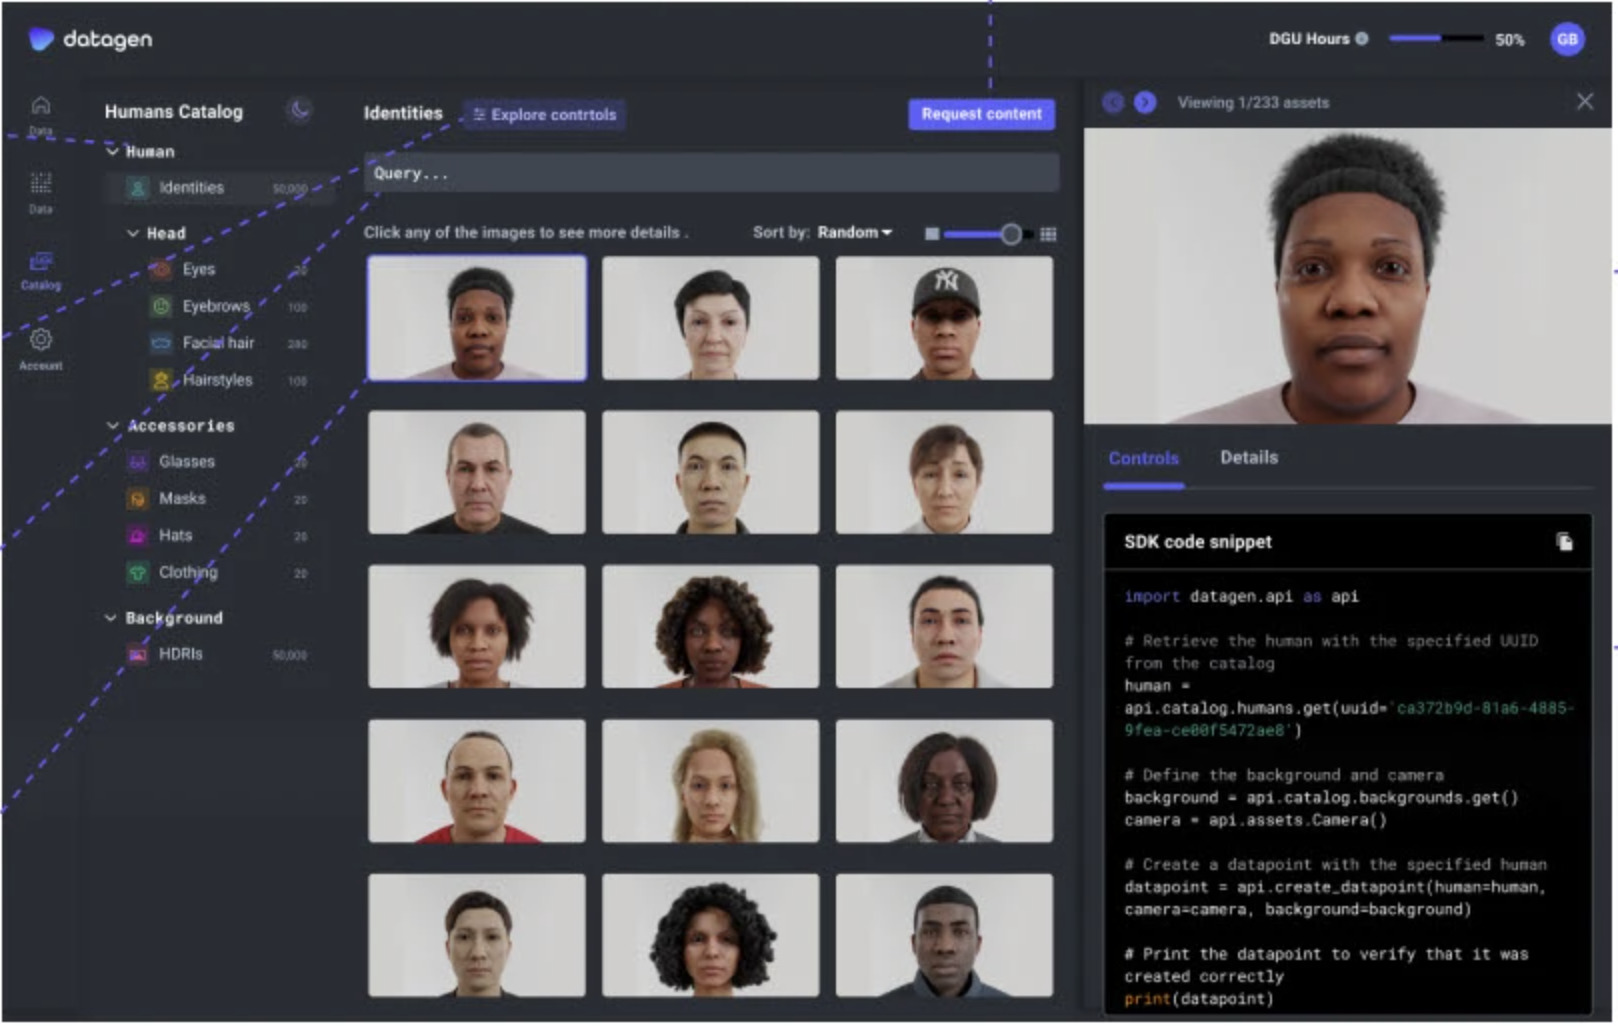
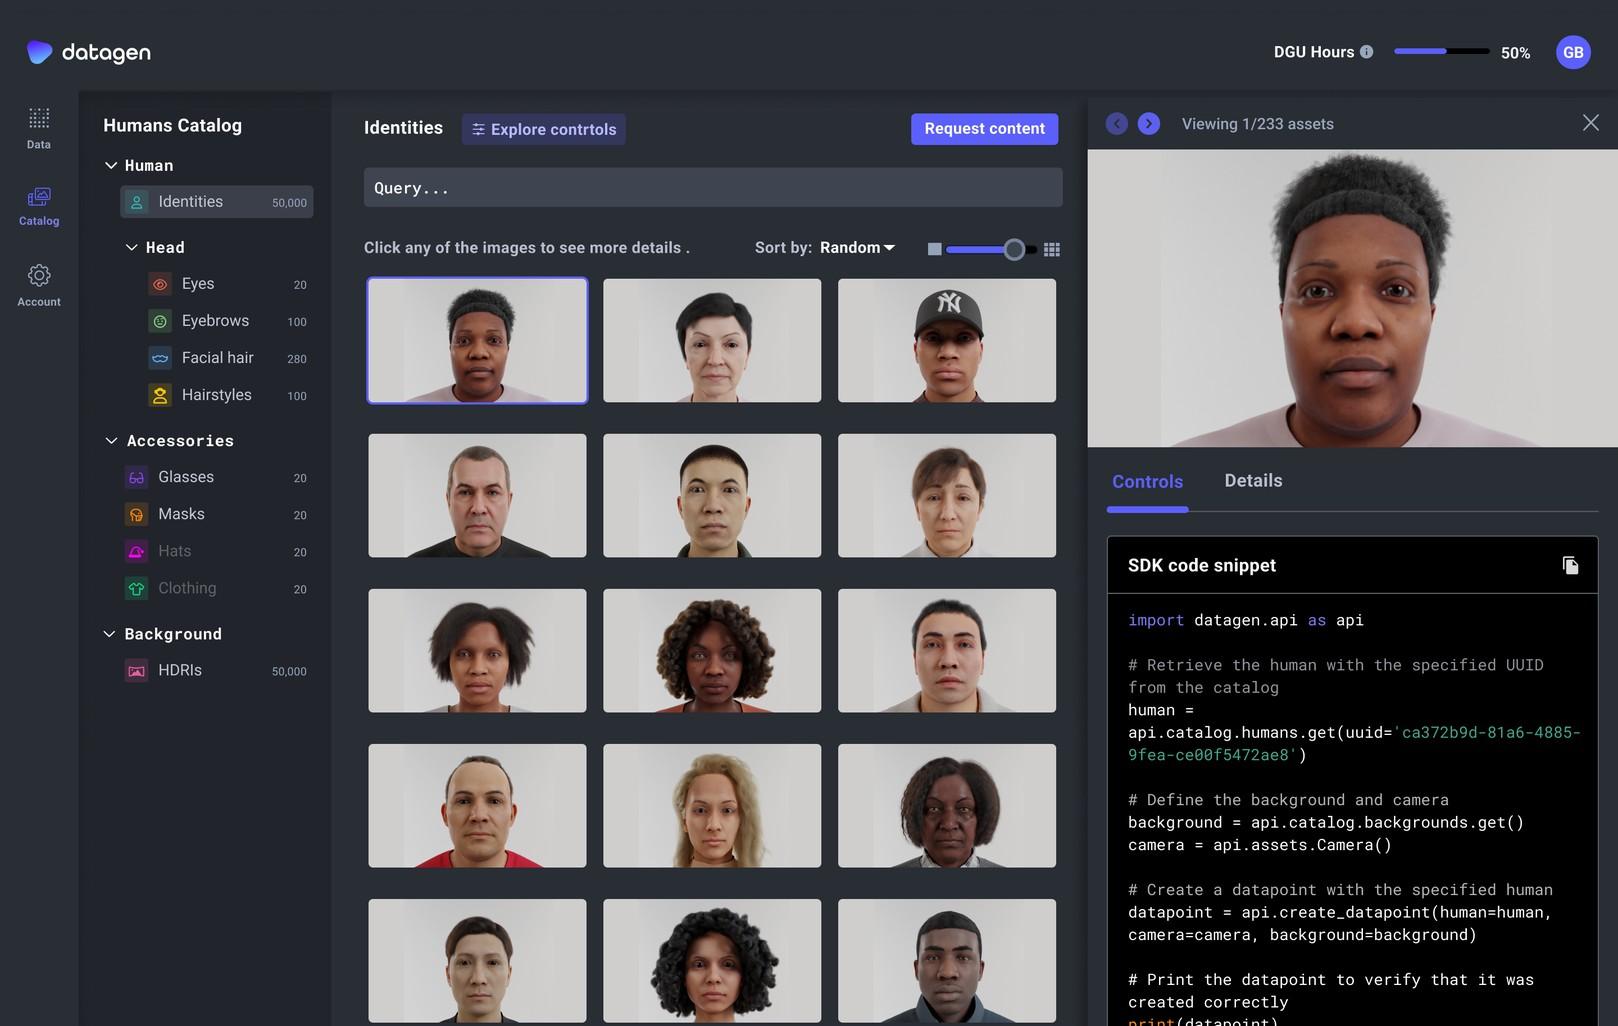
Datagen: replace home and catalog screens with Figma exports (#1)
Claude-Session: https://claude.ai/code/session_01Sb69NSC57WrQtPQq1EtEf8

diff --git a/datagen/index.html b/datagen/index.html
@@ -131,7 +131,7 @@
             <li><b>DGU hours bank</b>Tells you how much data you can still generate.</li>
             <li><b>Additional materials</b>GitHub, documentation, Jupyter notebooks and tutorials, for people who want to go deeper or are on their way to the SDK.</li>
           </ul>
-          <figure style="margin:0"><div class="shot" style="padding:14px"><img src="../img/datagen/home.jpg" width="1610" height="1008" loading="lazy" alt="Datagen home screen in dark mode: “What would you like to generate today?” with Humans and Humans in Context cards, a panel of learning resources, and a table of dataset requests with their status."></div></figure>
+          <figure style="margin:0"><div class="shot" style="padding:14px"><img src="../img/datagen/home.jpg" width="1610" height="1006" loading="lazy" alt="Datagen home screen in dark mode: “What would you like to generate today?” with Humans and Humans in Context cards, a panel of learning resources, and a table of dataset requests with their status."></div></figure>
         </div>
       </article>
 
